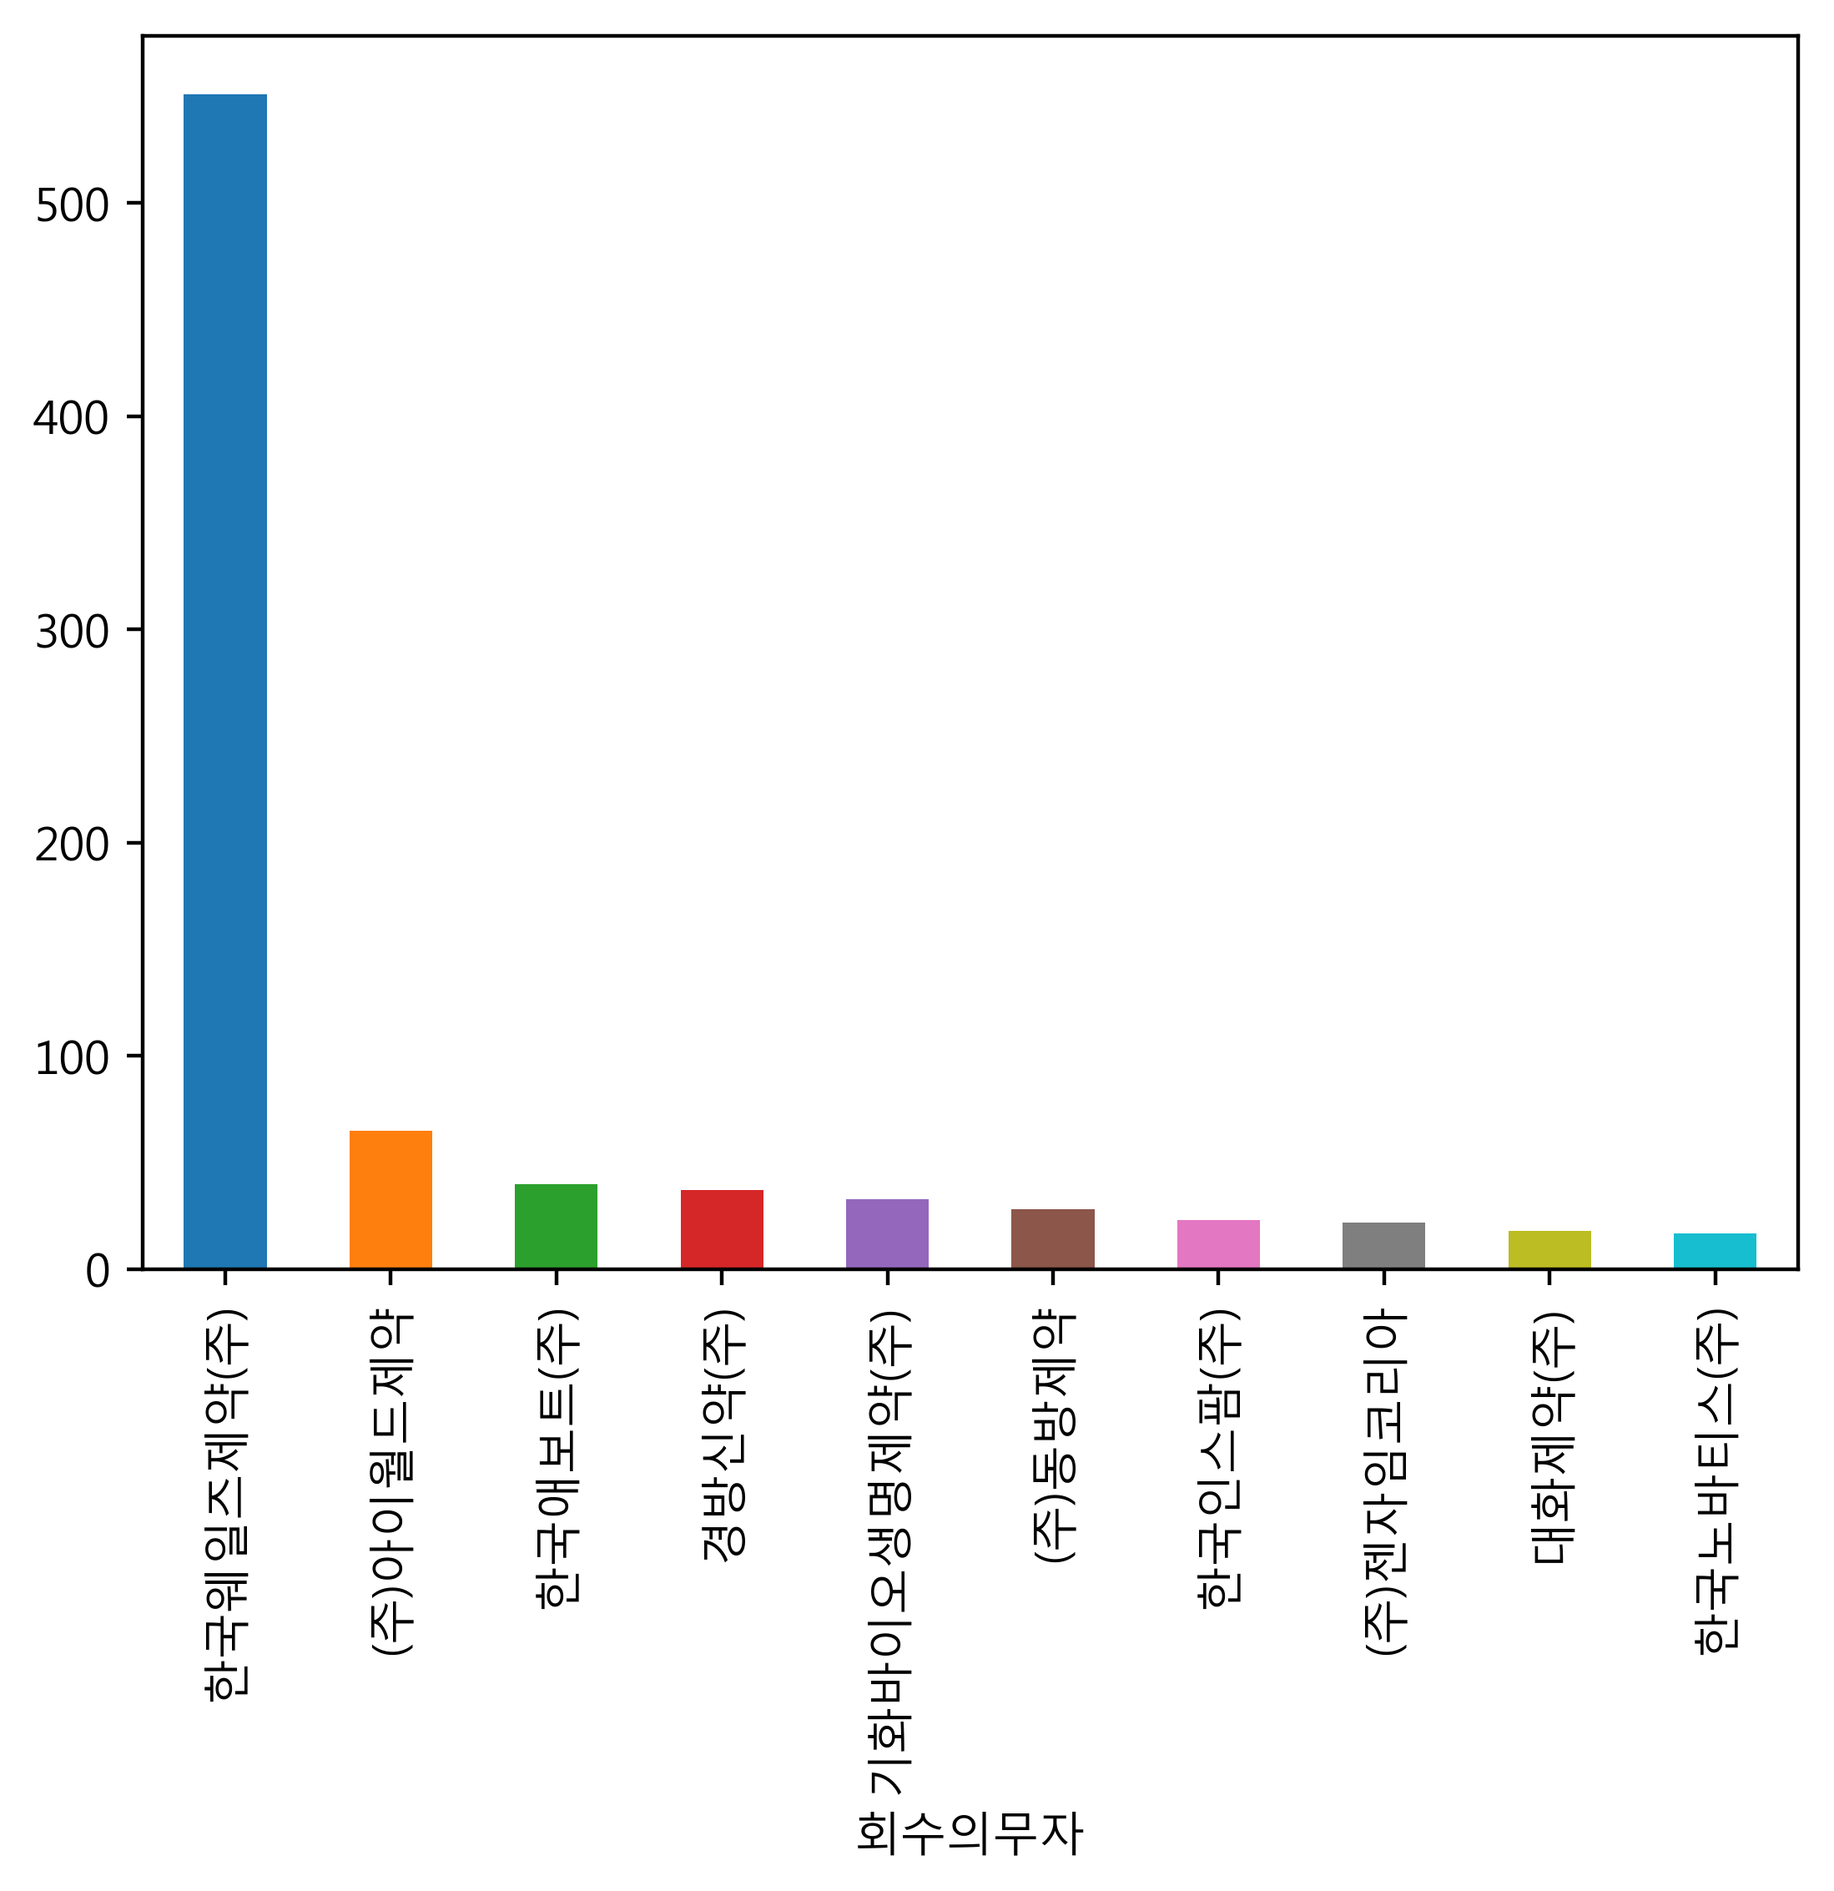
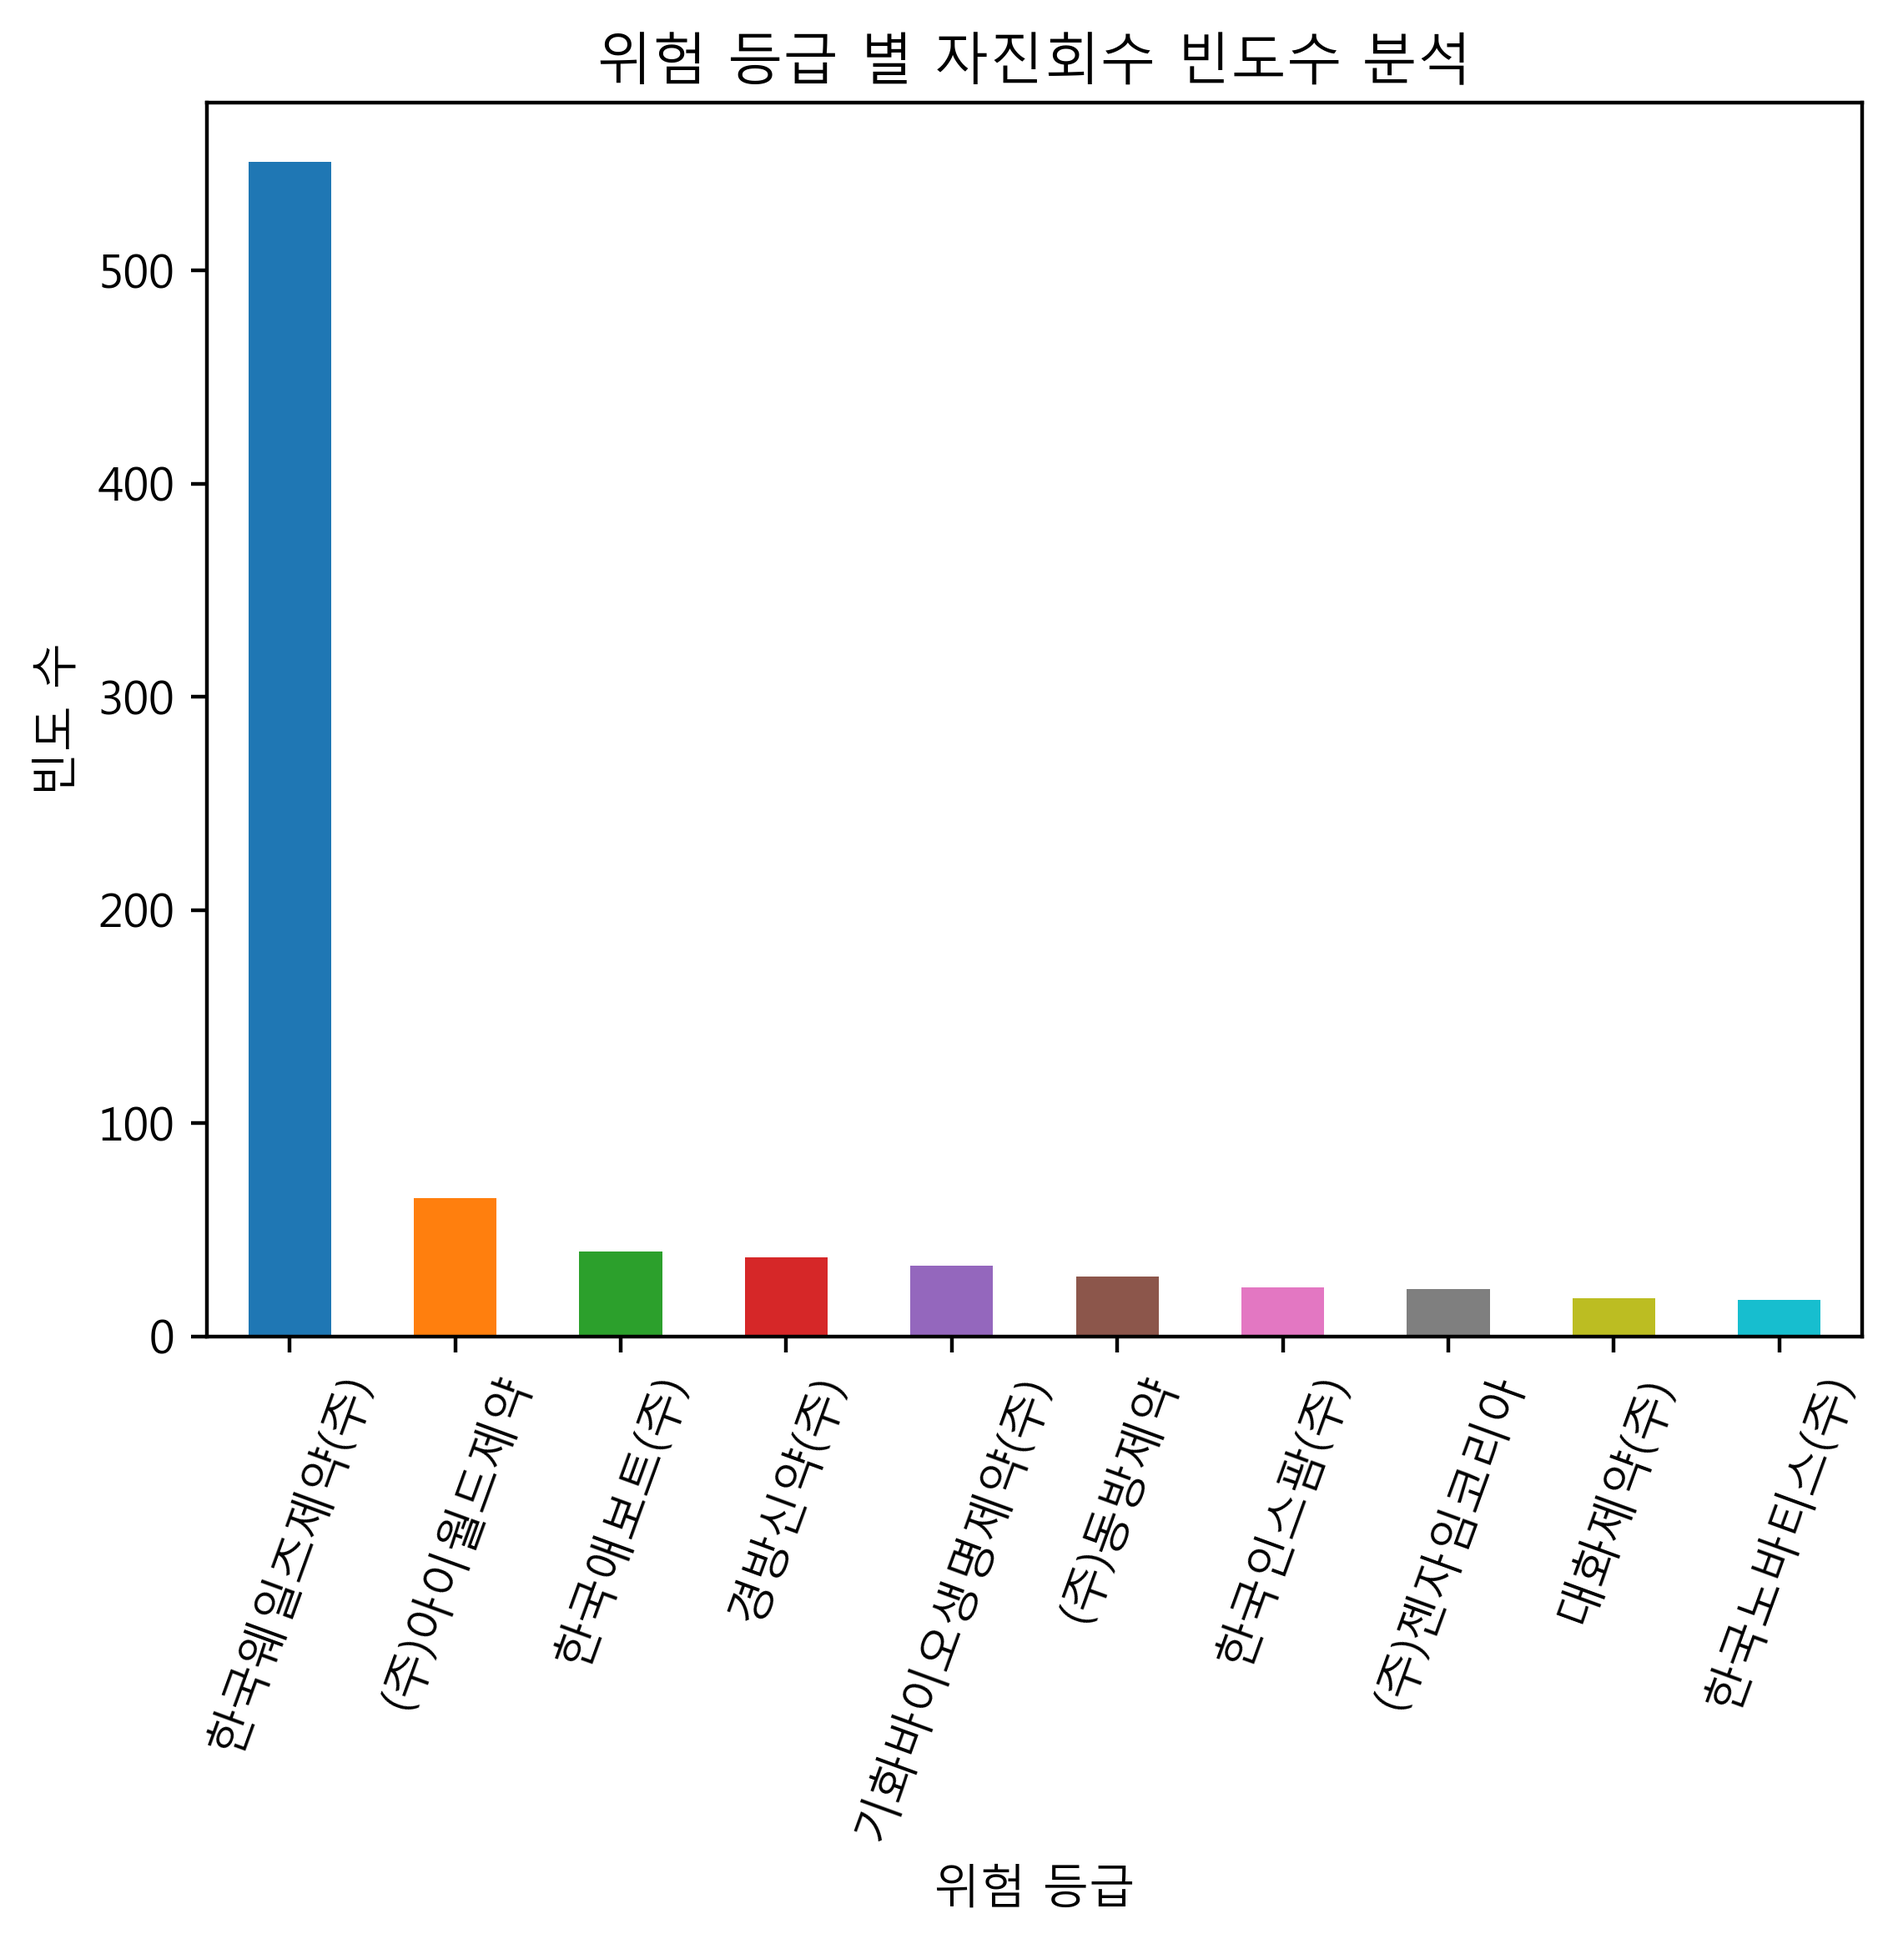
오타수정

diff --git a/hsw/hsw4.py b/hsw/hsw4.py
@@ -58,6 +58,12 @@ result.plot(kind='bar')
  
 filename = 'drug4.png'
 
+#plt.legend(loc='upper right')
+plt.title('회수 의무자 빈도수 분석')
+plt.xlabel('회수 의무자')
+plt.ylabel('빈도 수')
+
+plt.xticks(rotation='70')
 plt.savefig(filename, dpi=400, bbox_inches='tight')
 plt.show()
 
